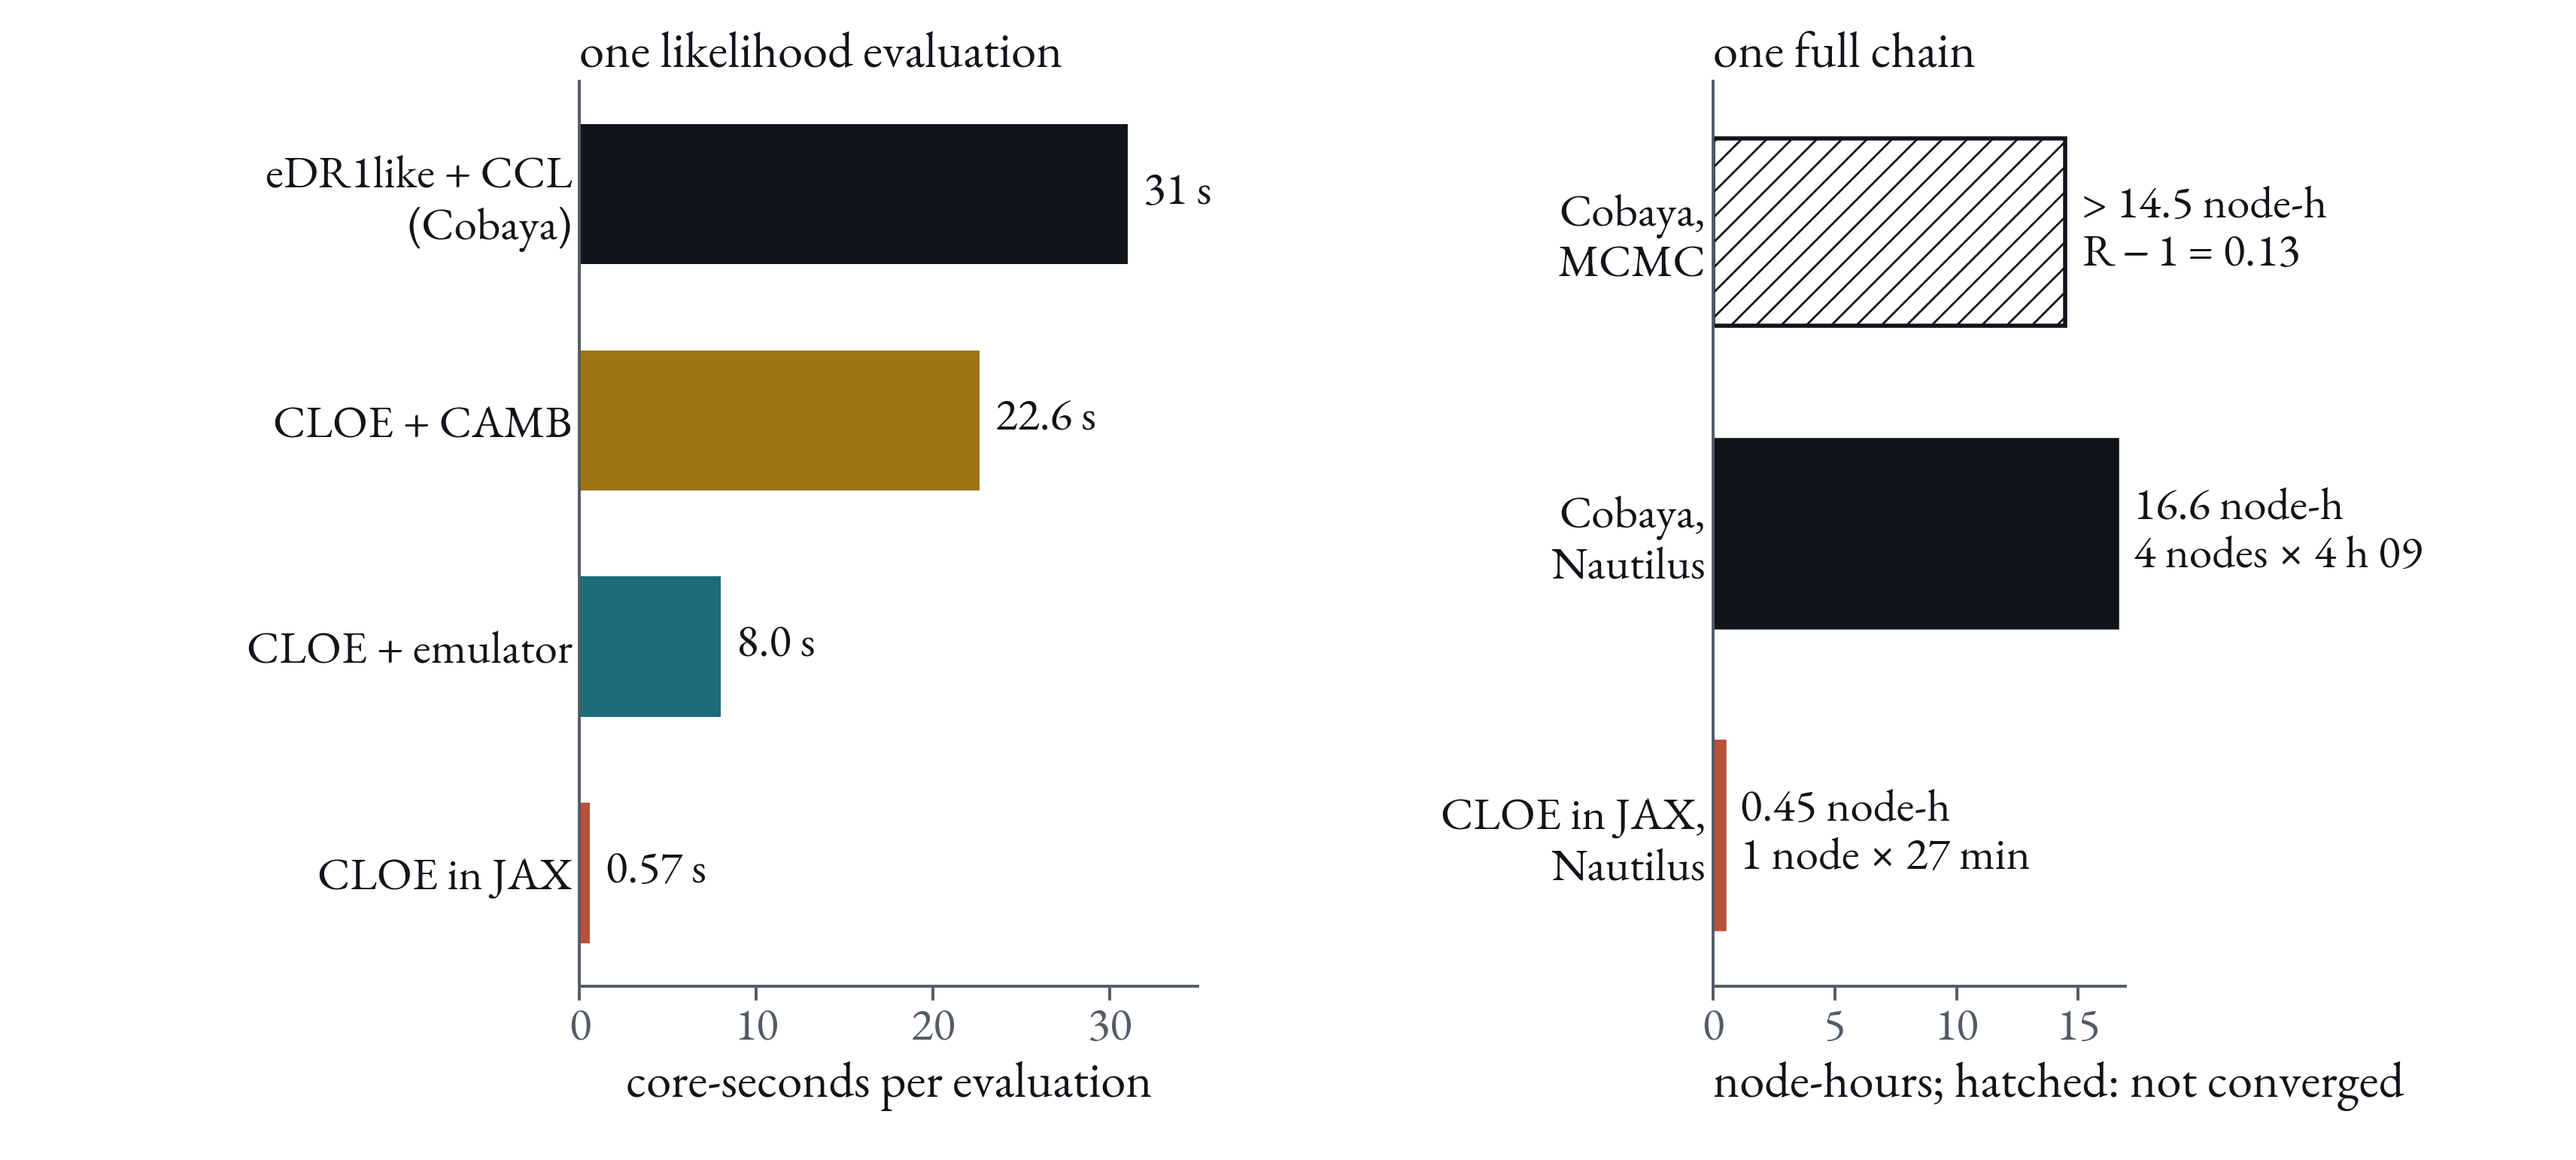
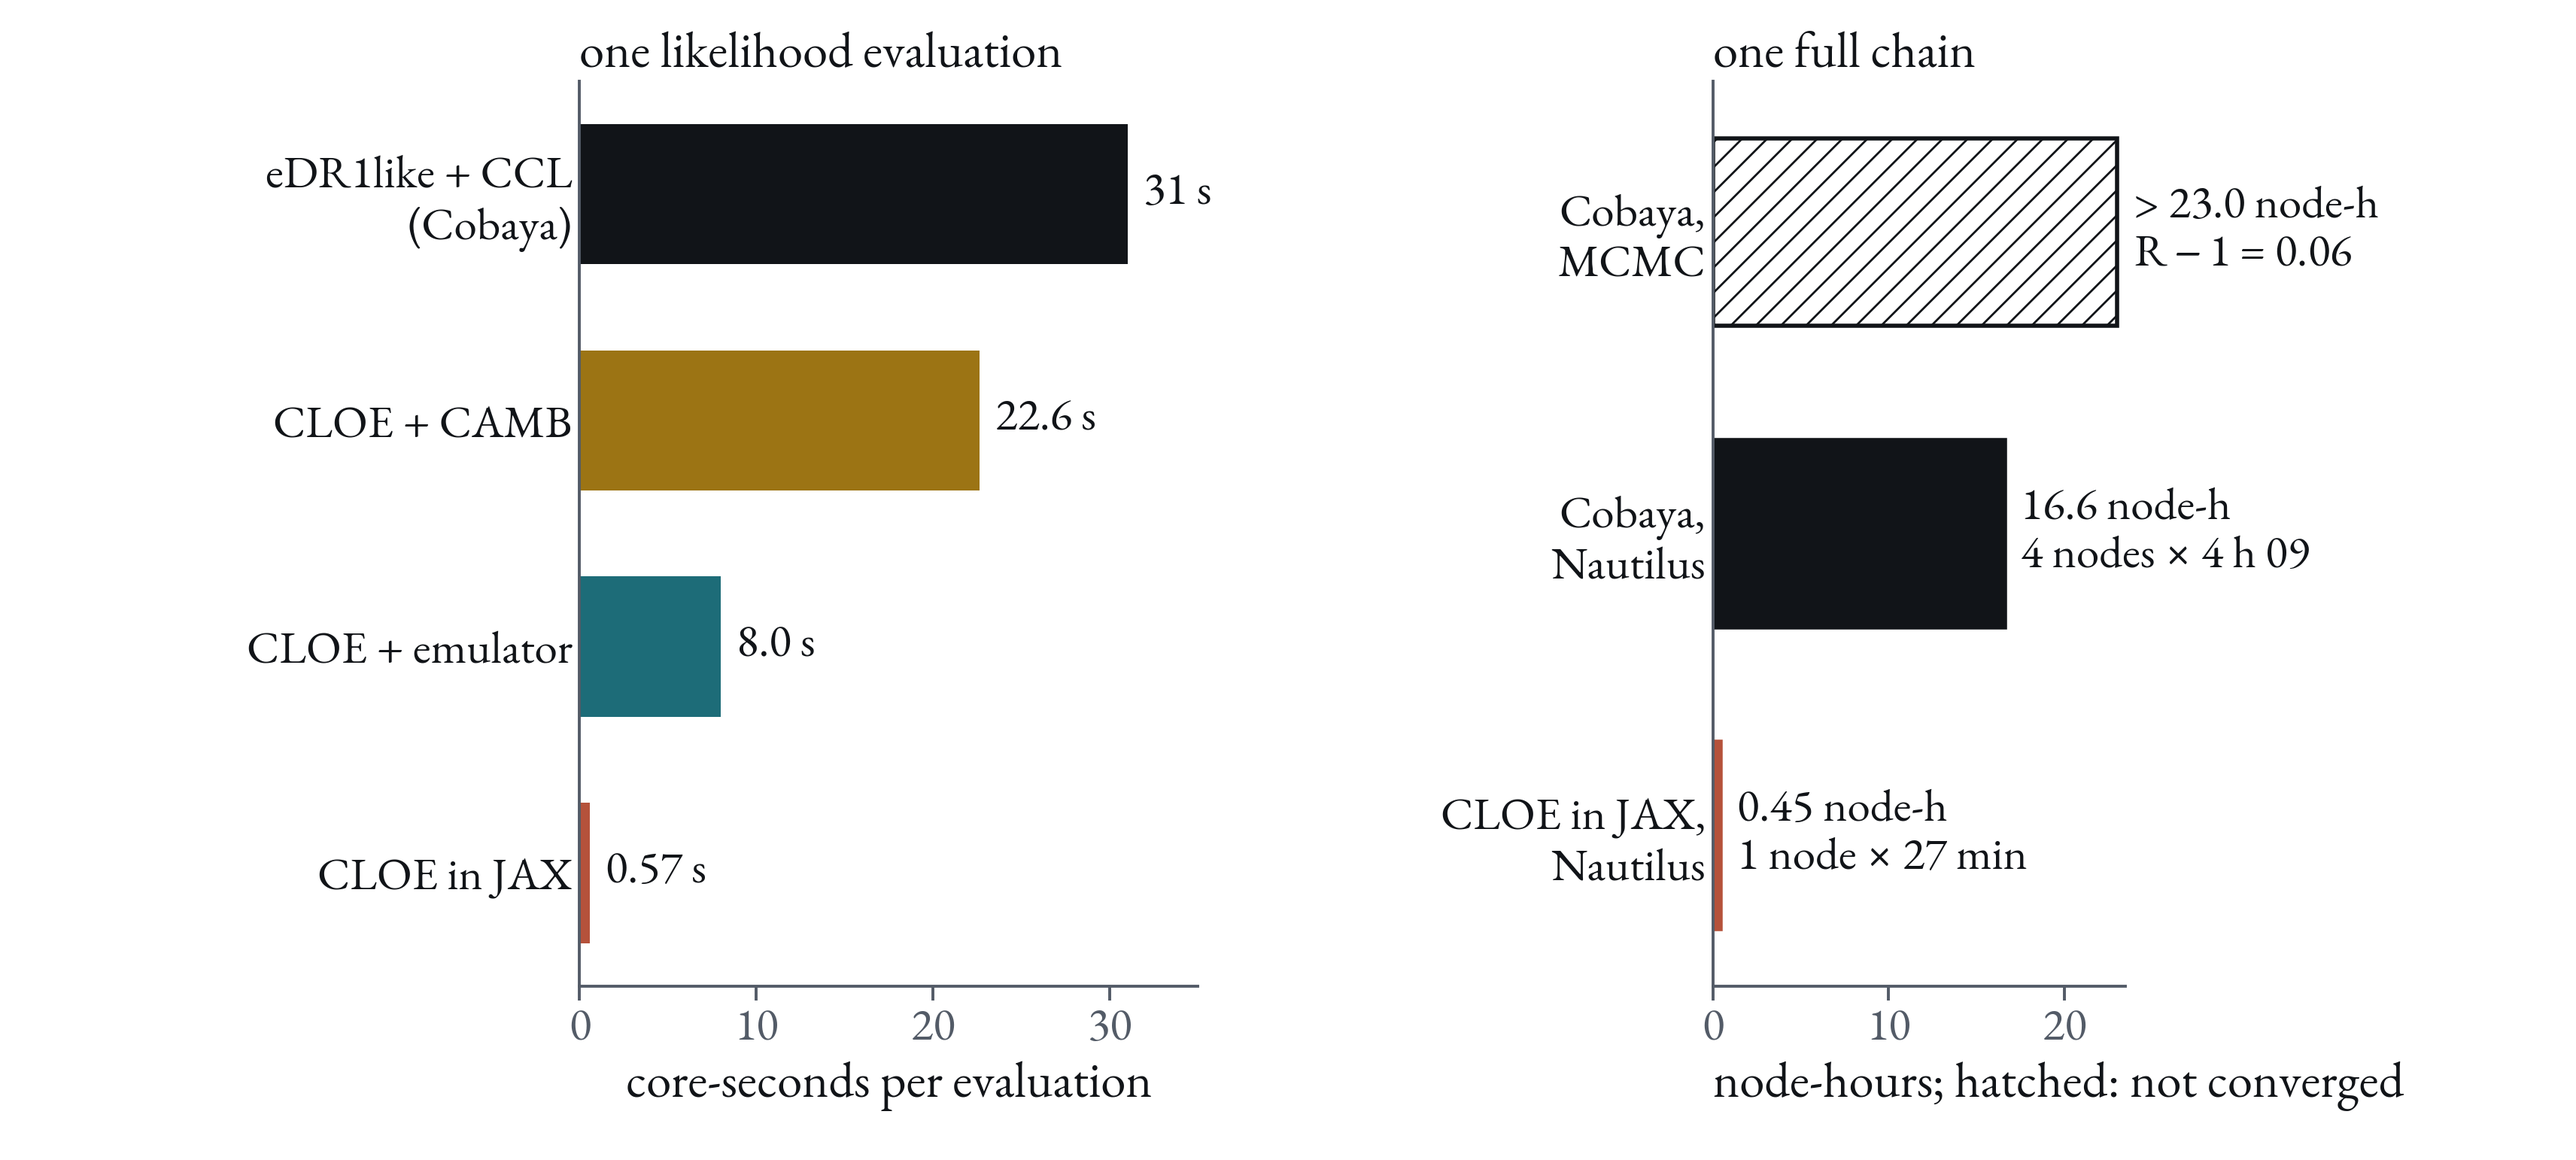
Paris SWG deck: Cobaya MCMC at its final state (stopped at 12 h limit, R-1 = 0.059 after 23.0 node-hours)
Claude-Session: https://claude.ai/code/session_01JK7o9EbVxx7JHrKQ8aJWYB

diff --git a/2611_Paris_SWG/slides/cloe-cost.html b/2611_Paris_SWG/slides/cloe-cost.html
@@ -1,20 +1,20 @@
 <section data-layout="figure">
   <h2>37× fewer node-hours per chain with CLOE in JAX</h2>
   <figure>
-    <img src="images/paris26_cloe_cost.png" alt="Left: core-seconds per likelihood evaluation: eDR1like + CCL in Cobaya 31 s, CLOE + CAMB 22.6 s, CLOE + emulator 8.0 s, CLOE in JAX 0.57 s. Right: node-hours of one full chain on the GLASS mock: Cobaya with MCMC more than 11 node-hours and not converged, Cobaya with nautilus 16.6 node-hours on four nodes for 4 h 09 min, CLOE in JAX with nautilus 0.45 node-hours on one node for 27 minutes">
+    <img src="images/paris26_cloe_cost.png" alt="Left: core-seconds per likelihood evaluation: eDR1like + CCL in Cobaya 31 s, CLOE + CAMB 22.6 s, CLOE + emulator 8.0 s, CLOE in JAX 0.57 s. Right: node-hours of one full chain on the GLASS mock: Cobaya with MCMC more than 23 node-hours and not converged at R−1 = 0.06, Cobaya with nautilus 16.6 node-hours on four nodes for 4 h 09 min, CLOE in JAX with nautilus 0.45 node-hours on one node for 27 minutes">
   </figure>
   <aside class="notes">
     <ul class="skim">
       <li><strong>Left</strong> — core-seconds per full-vector evaluation on a Leonardo DCGP node (112 cores, Sapphire Rapids). eDR1like + CCL in Cobaya: 31.0 s, the median over the 182&nbsp;000 evaluations of its chain, one core each. CLOE + CAMB 22.6 s and CLOE + emulator 8.0 s: medians over 5 prior draws on one core. CLOE in JAX: 0.57 core-s, the likelihood wall time of its chain × 112 cores ÷ points evaluated (an upper bound if not every core was busy).</li>
-      <li><strong>Right</strong> — node-hours of one full chain on the GLASS mock (seed 3004, 651 bands, 37 sampled parameters), all measured on 17 November 2026. Cobaya with nautilus over 447 MPI workers: 182&nbsp;000 evaluations, 4 h 09 min on four nodes, 16.6 node-hours, effective sample size 2046. CLOE in JAX with nautilus in batches of 1000: 206&nbsp;000 evaluations, 27 min on one node, 0.45 node-hours, effective sample size 3357. Hatched: Cobaya's own MCMC sampler (16 chains on two nodes), not converged at the time of drawing.</li>
-      <li><strong>Reading</strong> — two changes, read off the right panel. Sampler, with the Cobaya likelihood: nautilus converged in 16.6 node-hours, and Cobaya's MCMC had not converged when this was drawn, so nautilus gains some factor that is only bounded from below. Likelihood, with nautilus: 16.6 against 0.45 node-hours, a factor of 37, from compiled and batched JAX at 0.57 core-s per evaluation against 31 s.</li>
+      <li><strong>Right</strong> — node-hours of one full chain on the GLASS mock (seed 3004, 651 bands, 37 sampled parameters), all measured on 17 November 2026. Cobaya with nautilus over 447 MPI workers: 182&nbsp;000 evaluations, 4 h 09 min on four nodes, 16.6 node-hours, effective sample size 2046. CLOE in JAX with nautilus in batches of 1000: 206&nbsp;000 evaluations, 27 min on one node, 0.45 node-hours, effective sample size 3357. Hatched: Cobaya's own MCMC sampler (16 chains on two nodes), stopped by its 12 h wall-time limit after 23.0 node-hours at $R-1 = 0.059$, short of its stopping criterion of 0.02.</li>
+      <li><strong>Reading</strong> — two changes, read off the right panel. Sampler, with the Cobaya likelihood: nautilus finished in 16.6 node-hours; Cobaya's MCMC ran 23.0 node-hours without reaching its stopping criterion, although its posterior by then lay within 0.08σ of the nautilus one in every parameter. So nautilus is somewhat cheaper here and also gives the evidence, but the sampler is not where the large factor is. Likelihood, with nautilus: 16.6 against 0.45 node-hours, a factor of 37, from compiled and batched JAX at 0.57 core-s per evaluation against 31 s.</li>
       <li><strong>On blinded TR1</strong> — the same: Cobaya with nautilus 222&nbsp;000 evaluations of 35 s, 5 h 35 min on four nodes, 22.3 node-hours; CLOE in JAX 245&nbsp;000 evaluations, 31 min on one node, 0.52 node-hours: 43 times fewer.</li>
     </ul>
     <details><summary>Why the emulator alone gains only 3×</summary>
     <p>The Theory WG quotes about 200× for its emulator against CAMB; in this 651-band vector CLOElib's angular projection then dominates the cost (5.3 of the 8.0 s).</p>
     </details>
     <details><summary>The MCMC chain</summary>
-    <p>Cobaya's Metropolis–Hastings sampler as dr1_cmbx's configurations set it up, with the fast block oversampled ten times: $R-1 = 0.27$ at 7.8 node-hours, 0.16 at 10.4, 0.14 at 11.4, 0.13 at 14.5; stopping criterion 0.02, wall-time limit 12 h (24 node-hours). Its partial posterior at 11 node-hours was within 0.11σ of the nautilus one in every parameter.</p>
+    <p>Cobaya's Metropolis–Hastings sampler as dr1_cmbx's configurations set it up, with the fast block oversampled ten times: $R-1 = 0.22$ at 8.3 node-hours, 0.16 at 10.4, 0.10 at 16.5 and 0.059 at 23.0, where the 12 h wall-time limit stopped it after 504&nbsp;000 accepted steps; stopping criterion 0.02. Its posterior at the stop is within 0.08σ of the nautilus one in every parameter ($S_8$ +0.03σ, $\Omega_\mathrm{m}$ +0.02σ), with widths within 6%.</p>
     </details>
     <details><summary>Emulator accuracy</summary>
     <p>CLOElib's CosmoPower-JAX HMCode-2020 emulator (the Theory WG network) agrees with CLOE + CAMB to 0.006σ per band at five of six prior draws and 0.042σ at the sixth, on the data configuration.</p>

diff --git a/2611_Paris_SWG/slides/cloe-roles.html b/2611_Paris_SWG/slides/cloe-roles.html
@@ -12,7 +12,7 @@
       <li><strong>Cobaya</strong> — a framework for Bayesian inference in cosmology. It holds the model (which parameters are sampled, fixed or derived, and their priors), connects theory codes to likelihoods, and ships its own samplers: a Metropolis–Hastings MCMC, an interface to PolyChord, and a minimizer. So "running Cobaya" usually means both: Cobaya's model and Cobaya's MCMC.</li>
       <li><strong>eDR1like</strong> — a likelihood written for Cobaya's framework, with CCL as its theory code. dr1_cmbx's configurations run it with Cobaya's MCMC (row 1).</li>
       <li><strong>nautilus</strong> — a separate nested sampler. It needs only a function from parameters to log-likelihood, so it can sample Cobaya's model (row 2) or a JAX function (row 3). It proposes points in batches, which is what lets the JAX likelihood evaluate 1000 points per call.</li>
-      <li><strong>What each change gains</strong> — on a GLASS mock, full vector (measured 17–18 November 2026). Row 1: Cobaya's MCMC was at $R-1 = 0.13$ after 14.5 node-hours, against a stopping criterion of 0.02, so not converged. Row 2: 16.6 node-hours, converged. Row 3: 0.45 node-hours. The sampler change therefore gains some factor that this run only bounds from below; the likelihood change gains 37.</li>
+      <li><strong>What each change gains</strong> — on a GLASS mock, full vector (measured 17–18 November 2026). Row 1: Cobaya's MCMC ran 23.0 node-hours and stopped at its 12 h limit with $R-1 = 0.059$, short of its stopping criterion of 0.02; its posterior was by then within 0.08σ of row 2's. Row 2: 16.6 node-hours, finished. Row 3: 0.45 node-hours. The sampler change gains a modest factor (1.4 or more if MCMC is held to its criterion) and the evidence; the likelihood change gains 37.</li>
     </ul>
     <details><summary>What my chains used before</summary>
     <p>The first TR1 chains of this pipeline used Cobaya's MCMC; from 19 October 2026 they use nautilus on the same Cobaya model (row 2), and since 15 November nautilus on CLOE in JAX.</p>

diff --git a/2611_Paris_SWG/slides/cloe-cobaya.html b/2611_Paris_SWG/slides/cloe-cobaya.html
@@ -15,7 +15,7 @@
       <li><strong>The two questions</strong> — whether the chains could be made faster, and what they would look like with CLOE, the collaboration's theory and likelihood code. The rest of the section is the answer so far.</li>
     </ul>
     <details><summary>Cobaya's own sampler</summary>
-    <p>dr1_cmbx's configurations use Cobaya's Metropolis–Hastings sampler. On the same mock, 16 chains on two nodes had reached $R-1 = 0.13$ after 14.5 node-hours (stopping criterion 0.02), so they had not converged; their partial posterior was within 0.11σ of the nautilus one. The slide after the next sets the two samplers and the two likelihoods side by side.</p>
+    <p>dr1_cmbx's configurations use Cobaya's Metropolis–Hastings sampler. On the same mock, 16 chains on two nodes reached $R-1 = 0.059$ when their 12 h wall-time limit stopped them after 23.0 node-hours, short of the stopping criterion of 0.02; their posterior is within 0.08σ of the nautilus one in every parameter. The slide after the next sets the two samplers and the two likelihoods side by side.</p>
     </details>
     <details><summary>Sources</summary>
     <p>dr1_cmbx git history of eDR1like; the directly sampled Cobaya chains of 17 November 2026 (felt fiber cmbx/standalone-cloe-fast-likelihood, direct-cobaya/REPORT.md).</p>
